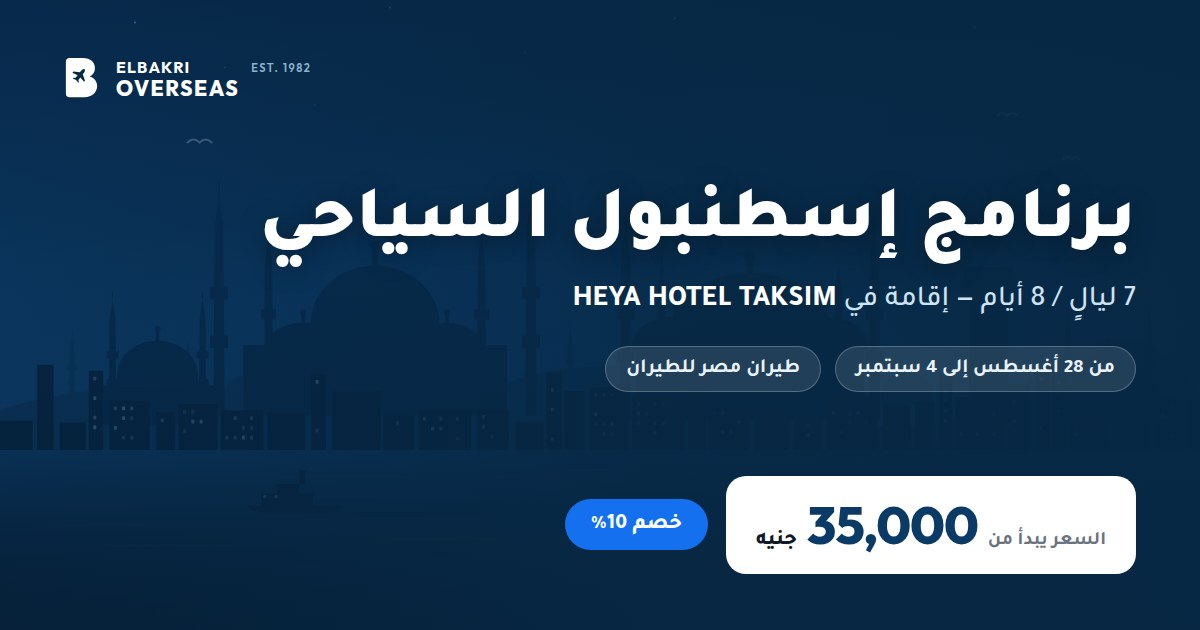
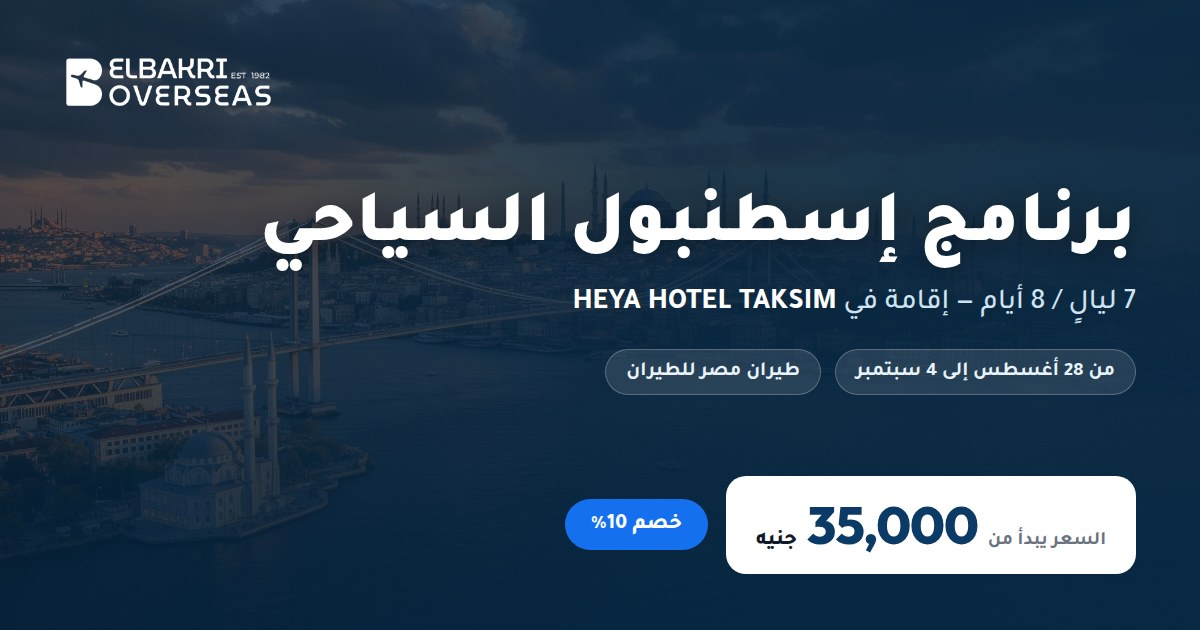
Use real brand and photo assets from the Lovable export
Replaces generated stand-ins with the agency's own assets.

- Logo: official mark cropped from elbakri-logo-transparent.png into
  logo.png (navy, navbar), logo-light.png (knockout, footer and share
  card) and favicon.png / apple-touch-icon.png (B mark on navy). Drops
  the hand-drawn SVG lockup and its styles.
- Hero: real Istanbul photograph, preloaded so it paints with the fold.
- Hotel: six genuine HEYA photos (facade, room, twin room, reception,
  lobby, breakfast) replacing the labelled placeholders.
- Itinerary: optional per-day photo, rendered beside the stop list on
  wide screens. Wired for days 2, 3, 5 and 6.
- Share card rebuilt on the real photo and logo.

Two assets from the export were deliberately not used:

- hagia-sophia.jpg does not depict Hagia Sophia — it is a generic
  Ottoman-style mosque. Labelling it as a program stop would misrepresent
  what travellers will see, so day 2 uses the Bosphorus photo instead.
- taksim.jpg shows a tram with garbled lettering ("TAKSIM FRILL"), a
  visible generation artifact, so day 1 ships without a photo.

Customer review screenshots were not in the export — those entries were
asset pointers to a Lovable-hosted URL, not image files. Those slots keep
their labelled placeholders until the real screenshots are supplied.

Claude-Session: https://claude.ai/code/session_01MPc6YEAxbNNjcKFJGa6NXU

diff --git a/index.html b/index.html
@@ -61,7 +61,9 @@ y=l.getElementsByTagName(r)[0];y.parentNode.insertBefore(t,y);
 <link rel="preconnect" href="https://fonts.gstatic.com" crossorigin>
 <link href="https://fonts.googleapis.com/css2?family=Outfit:wght@600;700;800&family=Tajawal:wght@400;500;700;800;900&display=swap" rel="stylesheet">
 <link rel="stylesheet" href="assets/css/styles.css">
-<link rel="icon" href="assets/img/favicon.svg" type="image/svg+xml">
+<link rel="preload" as="image" href="assets/img/hero/istanbul.jpg" fetchpriority="high">
+<link rel="icon" href="assets/img/favicon.png" type="image/png">
+<link rel="apple-touch-icon" href="assets/img/apple-touch-icon.png">
 </head>
 
 <body>
@@ -102,17 +104,8 @@ height="0" width="0" style="display:none;visibility:hidden"></iframe></noscript>
 <header class="nav" id="nav">
   <div class="wrap nav__inner">
     <a class="brand" href="#home" aria-label="البكري أوفرسيز — الصفحة الرئيسية">
-      <svg class="brand__mark" viewBox="0 0 64 72" aria-hidden="true">
-        <path fill="currentColor" d="M9 3h21.5C42.2 3 49.5 9.6 49.5 19.4c0 6.3-3.2 11-8.6 13.3 7.4 2 12.1 7.6 12.1 15C53 58.4 45 66 32.6 66H9a6 6 0 0 1-6-6V9a6 6 0 0 1 6-6Z"/>
-        <g transform="translate(25.5 30.5) rotate(38)">
-          <path fill="#fff" d="M0-12c1.7 0 2.8 2.6 2.8 5.6v2.8L11.8 2v2.4L2.8 2.6v5l2.8 2.1v1.5L0 10 -5.6 11.2V9.7L-2.8 7.6v-5L-11.8 4.4V2l9-5.6v-2.8C-2.8-9.4-1.7-12 0-12Z"/>
-        </g>
-      </svg>
-      <span class="brand__text">
-        <span class="brand__name">ELBAKRI</span>
-        <span class="brand__sub">OVERSEAS</span>
-      </span>
-      <span class="brand__est">EST. 1982</span>
+      <img class="brand__logo" src="assets/img/logo.png" alt="البكري أوفرسيز"
+           width="682" height="170" fetchpriority="high">
     </a>
 
     <nav class="nav__links" aria-label="روابط الصفحة">
@@ -158,8 +151,7 @@ height="0" width="0" style="display:none;visibility:hidden"></iframe></noscript>
 <section class="hero" id="home">
   <div class="hero__media" id="heroMedia">
     <img class="hero__skyline" src="assets/img/hero/istanbul-skyline.svg" alt="" aria-hidden="true">
-    <!-- ضع صورة إسطنبول الحقيقية باسم istanbul.jpg داخل assets/img/hero/ وستظهر تلقائياً.
-         ولو رفعت فيديو باسم istanbul.mp4 في نفس المجلد هيشتغل كخلفية صامتة. -->
+    <!-- لو رفعت فيديو باسم istanbul.mp4 في نفس المجلد هيشتغل كخلفية صامتة بدل الصورة. -->
     <img class="hero__photo" src="assets/img/hero/istanbul.jpg" alt="" aria-hidden="true" loading="eager" decoding="async">
     <span class="hero__scrim"></span>
   </div>
@@ -424,16 +416,8 @@ height="0" width="0" style="display:none;visibility:hidden"></iframe></noscript>
 <footer class="foot">
   <div class="wrap foot__inner">
     <div class="foot__brand">
-      <svg class="brand__mark brand__mark--light" viewBox="0 0 64 72" aria-hidden="true">
-        <path fill="currentColor" d="M9 3h21.5C42.2 3 49.5 9.6 49.5 19.4c0 6.3-3.2 11-8.6 13.3 7.4 2 12.1 7.6 12.1 15C53 58.4 45 66 32.6 66H9a6 6 0 0 1-6-6V9a6 6 0 0 1 6-6Z"/>
-        <g transform="translate(25.5 30.5) rotate(38)">
-          <path fill="#0B3A67" d="M0-12c1.7 0 2.8 2.6 2.8 5.6v2.8L11.8 2v2.4L2.8 2.6v5l2.8 2.1v1.5L0 10 -5.6 11.2V9.7L-2.8 7.6v-5L-11.8 4.4V2l9-5.6v-2.8C-2.8-9.4-1.7-12 0-12Z"/>
-        </g>
-      </svg>
-      <div>
-        <p class="foot__name">ELBAKRI OVERSEAS</p>
-        <p class="foot__since">البكري أوفرسيز — EST. 1982</p>
-      </div>
+      <img class="brand__logo brand__logo--light" src="assets/img/logo-light.png"
+           alt="البكري أوفرسيز" width="682" height="170" loading="lazy">
     </div>
 
     <nav class="foot__links" aria-label="روابط سريعة">

diff --git a/assets/css/styles.css b/assets/css/styles.css
@@ -241,28 +241,9 @@ strong { font-weight: 800; }
 }
 
 /* brand lockup */
-.brand { display: flex; align-items: center; gap: 10px; flex: none; color: var(--navy); direction: ltr; }
-.brand__mark { width: 30px; height: 34px; color: var(--navy); flex: none; }
-.brand__mark--light { color: #fff; width: 34px; height: 38px; }
-.brand__text { display: flex; flex-direction: column; line-height: 1; }
-.brand__name,
-.brand__sub {
-  font-family: var(--font-latin);
-  font-weight: 700;
-  letter-spacing: .06em;
-  color: var(--navy);
-}
-.brand__name { font-size: 13px; }
-.brand__sub { font-size: 15.5px; font-weight: 800; margin-top: 2px; }
-.brand__est {
-  font-family: var(--font-latin);
-  font-size: 9.5px;
-  font-weight: 600;
-  letter-spacing: .12em;
-  color: var(--muted);
-  align-self: flex-start;
-  margin-top: 4px;
-}
+.brand { display: flex; align-items: center; flex: none; }
+.brand__logo { height: 30px; width: auto; }
+.brand__logo--light { height: 38px; }
 
 .nav__links { display: none; gap: 4px; margin-inline-start: auto; }
 .nav__links a {
@@ -719,8 +700,11 @@ strong { font-weight: 800; }
 .shot img { width: 100%; height: 100%; object-fit: cover; }
 .shot__cap {
   position: absolute;
-  inset-inline: 8px;
-  bottom: 8px;
+  left: 50%;
+  transform: translateX(-50%);
+  bottom: 9px;
+  width: max-content;
+  max-width: calc(100% - 18px);
   background: rgba(7, 40, 68, .82);
   color: #fff;
   font-size: 12.5px;
@@ -818,7 +802,27 @@ strong { font-weight: 800; }
 .day details[open] .day__chev { transform: rotate(180deg); color: var(--blue); }
 
 .day__body { padding: 0 18px 18px; }
+.day__img {
+  width: 100%;
+  height: auto;
+  aspect-ratio: 16 / 9;
+  object-fit: cover;
+  border-radius: var(--r-sm);
+  border: 1px solid var(--line);
+  margin-bottom: 14px;
+}
+@media (min-width: 700px) {
+  .day__body--media {
+    display: grid;
+    grid-template-columns: 230px minmax(0, 1fr);
+    gap: 18px;
+    align-items: start;
+  }
+  .day__body--media .day__img { margin-bottom: 0; aspect-ratio: 4 / 3; }
+  .day__body--media ul { border-top: 0; padding-top: 0; }
+}
 .day__body ul { display: grid; gap: 10px; border-top: 1px dashed var(--line); padding-top: 14px; }
+.day__img + ul { border-top: 0; padding-top: 0; }
 .day__body li {
   display: flex;
   align-items: flex-start;
@@ -1130,8 +1134,7 @@ strong { font-weight: 800; }
   padding-bottom: 30px;
   border-bottom: 1px solid rgba(255, 255, 255, .1);
 }
-.foot__brand { display: flex; align-items: center; gap: 13px; direction: ltr; }
-.foot__brand > div { text-align: left; }
+.foot__brand { display: flex; align-items: center; }
 .foot__name { font-family: var(--font-latin); font-size: 17px; font-weight: 800; color: #fff; letter-spacing: .06em; }
 .foot__since { font-size: 12.5px; color: #8FA9BF; margin-top: 3px; direction: rtl; }
 .foot__links { display: flex; flex-wrap: wrap; gap: 6px 20px; }
@@ -1391,9 +1394,7 @@ body { padding-bottom: 74px; }
   .reviews { display: block; columns: 2; column-gap: 16px; }
   .reviews > * { break-inside: avoid; margin-bottom: 16px; }
 
-  .brand__mark { width: 34px; height: 38px; }
-  .brand__name { font-size: 15px; }
-  .brand__sub { font-size: 18px; }
+  .brand__logo { height: 36px; }
 
   .foot__inner { grid-template-columns: auto 1fr auto; align-items: center; gap: 34px; }
   .foot__links { justify-content: center; }

diff --git a/assets/js/content.js b/assets/js/content.js
@@ -91,15 +91,21 @@ const content = {
     ]
   },
 
-  /* معرض صور الفندق — ضع أسماء الصور الحقيقية في src ليتم عرضها */
+  /* معرض صور الفندق — صور حقيقية لفندق HEYA */
   hotelGallery: [
     { label: "واجهة الفندق", src: "assets/img/hotel/facade.jpg" },
     { label: "الغرف", src: "assets/img/hotel/room.jpg" },
     { label: "الريسبشن", src: "assets/img/hotel/reception.jpg" },
-    { label: "الإفطار / المطعم", src: "assets/img/hotel/breakfast.jpg" }
+    { label: "الإفطار / المطعم", src: "assets/img/hotel/breakfast.jpg" },
+    { label: "غرفة بسريرين", src: "assets/img/hotel/twin-room.jpg" },
+    { label: "اللوبي", src: "assets/img/hotel/lobby.jpg" }
   ],
 
-  /* البرنامج اليومي */
+  /* البرنامج اليومي
+     ------------------------------------------------------------------
+     image: صورة توضيحية لأجواء اليوم (اختيارية). الصور دي معبّرة عن طابع
+     المكان مش لقطة حرفية لمَعلم بعينه — امسح السطر لو مش عايزها.
+     ------------------------------------------------------------------ */
   itinerary: [
     {
       day: "اليوم الأول",
@@ -112,6 +118,7 @@ const content = {
     },
     {
       day: "اليوم الثاني",
+      image: "assets/img/places/bosphorus.jpg",
       title: "جولة إسطنبول التاريخية",
       items: [
         { text: "ميدان السلطان أحمد." },
@@ -125,6 +132,7 @@ const content = {
     },
     {
       day: "اليوم الثالث",
+      image: "assets/img/places/masukiye.jpg",
       title: "جولة صبنجة ومعشوقية",
       items: [
         { text: "بحيرة صبنجة." },
@@ -143,6 +151,7 @@ const content = {
     },
     {
       day: "اليوم الخامس",
+      image: "assets/img/places/princess-islands.jpg",
       title: "جولة جزيرة الأميرات (بويوك أدا)",
       items: [
         { text: "الانطلاق من كاباتاش بالعبّارة إلى جزيرة بويوك أدا." },
@@ -152,6 +161,7 @@ const content = {
     },
     {
       day: "اليوم السادس",
+      image: "assets/img/places/ortakoy.jpg",
       title: "جولة مدينة إسطنبول",
       items: [
         { text: "أورتاكوي." },

diff --git a/assets/js/main.js b/assets/js/main.js
@@ -230,7 +230,11 @@
               </span>
               ${icon('chevron', 'day__chev')}
             </summary>
-            <div class="day__body"><ul>${items}</ul></div>
+            <div class="day__body ${d.image ? 'day__body--media' : ''}">
+              ${d.image ? `<img class="day__img" src="${esc(d.image)}" alt="${esc(d.title)}"
+                   loading="lazy" decoding="async" width="900" height="562">` : ''}
+              <ul>${items}</ul>
+            </div>
           </details>
         </li>`;
       })

diff --git a/README.md b/README.md
@@ -11,11 +11,14 @@ index.html                        الصفحة
 assets/css/styles.css             التصميم
 assets/js/content.js              ← كل البيانات القابلة للتعديل (ابدأ من هنا)
 assets/js/main.js                 بناء الصفحة والتفاعلات
-assets/img/favicon.svg            أيقونة الموقع
+assets/img/logo.png               الشعار (كحلي — للناف بار)
+assets/img/logo-light.png         الشعار (أبيض — للفوتر)
+assets/img/favicon.png            أيقونة الموقع
 assets/img/og-cover.jpg           كارت المشاركة على واتساب وفيسبوك
 assets/img/hero/                  صورة/فيديو الهيرو
-assets/img/hotel/                 صور الفندق
-assets/img/reviews/               صور آراء العملاء
+assets/img/hotel/                 صور الفندق (حقيقية)
+assets/img/places/                صور توضيحية لأيام البرنامج
+assets/img/reviews/               صور آراء العملاء ← لسه فاضي
 vercel.json                       إعدادات النشر على فيرسل
 scripts/build.js                  تجهيز مجلد dist/ وضبط روابط المشاركة
 ```
@@ -72,17 +75,34 @@ const trip = {
 الصفحة بتتأكد إن الصورة موجودة قبل ما تعرضها. لو الصورة مش موجودة بيظهر **مكان محجوز واضح**
 مكتوب عليه اسمه — من غير أي صور وهمية أو مضللة.
 
-| المكان | حط الملف هنا | ملاحظات |
+### الموجود فعلاً
+
+| المكان | الملفات | الحالة |
 |---|---|---|
-| خلفية الهيرو | `assets/img/hero/istanbul.jpg` | صورة أفقية عالية الجودة (1920×1080 أو أكبر) |
-| فيديو الهيرو (اختياري) | `assets/img/hero/istanbul.mp4` | لو موجود بيشتغل صامت ومتكرر بدل الصورة |
-| صور الفندق | `assets/img/hotel/facade.jpg` · `room.jpg` · `reception.jpg` · `breakfast.jpg` | الأسماء متغيّرة من `content.hotelGallery` |
-| آراء العملاء | `assets/img/reviews/review-01.jpg` … `review-06.jpg` | سكرين شوت المحادثات |
+| الشعار | `logo.png` · `logo-light.png` · `favicon.png` | ✅ الشعار الرسمي |
+| خلفية الهيرو | `hero/istanbul.jpg` | ✅ |
+| صور الفندق | `hotel/facade.jpg` · `room.jpg` · `reception.jpg` · `breakfast.jpg` · `twin-room.jpg` · `lobby.jpg` | ✅ صور حقيقية لفندق HEYA |
+| صور أيام البرنامج | `places/bosphorus.jpg` · `masukiye.jpg` · `princess-islands.jpg` · `ortakoy.jpg` | ✅ توضيحية |
+| آراء العملاء | `reviews/review-01.jpg` … | ⬜ **ناقصة** |
 
-**آراء العملاء:** الصور بتتعرض **كاملة من غير أي قص** بارتفاعها الطبيعي، والضغط عليها بيفتحها مكبّرة.
-لزيادة أو تقليل عدد الآراء عدّل مصفوفة `content.reviews` في `content.js`.
+### ⬜ آراء العملاء — محتاجة منك
 
-لحد ما ترفع الصور، الصفحة شغالة عادي ومعتمدة على رسمة أفق إسطنبول المتجهة (SVG) في الهيرو.
+سكرين شوت الآراء **مش موجودة** في ملف المشروع اللي اتبعت (كانت مجرد مؤشرات لملفات
+على سيرفر Lovable مش صور فعلية). حط الصور في `assets/img/reviews/` بالأسماء
+`review-01.jpg` … `review-06.jpg` وهتظهر تلقائياً مكان الأماكن المحجوزة.
+لزيادة العدد عدّل مصفوفة `content.reviews` في `content.js`.
+
+الصور بتتعرض **كاملة من غير أي قص** بارتفاعها الطبيعي، والضغط عليها بيفتحها مكبّرة.
+
+### فيديو الهيرو (اختياري)
+
+حط ملف باسم `assets/img/hero/istanbul.mp4` وهيشتغل صامت ومتكرر بدل الصورة.
+
+### صور أيام البرنامج
+
+كل يوم في `content.itinerary` يقدر ياخد `image`. الصور دي **معبّرة عن طابع المكان
+مش لقطة حرفية لمَعلم بعينه** — لو عندك صور حقيقية من رحلاتكم استبدلها، ولو مش
+عايز صورة لليوم امسح سطر `image` وخلاص.
 
 ---
 
@@ -118,9 +138,13 @@ const trip = {
 
 ## 5) الشعار
 
-الشعار مرسوم داخل `index.html` كـ SVG (علامة الطائرة داخل حرف B + كلمة ELBAKRI OVERSEAS).
-لو عندك ملف الشعار الرسمي، استبدل الـ `<svg class="brand__mark">` بـ
-`<img src="assets/img/logo.svg" alt="البكري أوفرسيز">` في الناف بار والفوتر.
+الشعار الرسمي مستخدم في 3 نسخ، كلها مقصوصة ومظبوطة من ملف الشعار الأصلي:
+
+- `assets/img/logo.png` — كحلي على خلفية شفافة (الناف بار)
+- `assets/img/logo-light.png` — أبيض (الفوتر الكحلي وكارت المشاركة)
+- `assets/img/favicon.png` + `apple-touch-icon.png` — علامة الـ B على مربّع كحلي
+
+لو حدّثت الشعار، استبدل الملفات دي بنفس الأسماء والصفحة هتاخده على طول.
 
 ---
 
